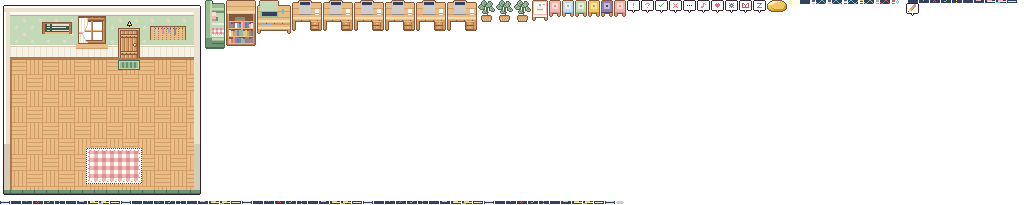
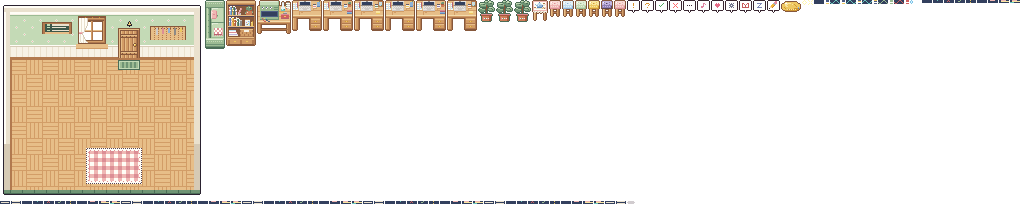
Hand-drawn 1px furniture for the room
Desks (each with its own props), stools, bookshelf, test rig, sofa, tea table,
beanbag and plants are drawn pixel by pixel in tools/art/furniture.py.
Frame sizes, positions, spots and screen overlays are unchanged.

diff --git a/tools/art/furniture.py b/tools/art/furniture.py
@@ -1,0 +1,347 @@
+"""Hand-placed furniture for the top-down room: 1 art pixel = 1 px, one opaque colour per pixel.
+
+cottage.py still owns where each piece stands (its floor box, draw order and frame position);
+gen_art.py swaps the box-built picture for the one drawn here, which must have the same size.
+"""
+from PIL import Image
+
+import cottage
+
+PAL = dict(cottage.PAL, g3='#e9e6e2')
+
+C = {k: (int(v[1:3], 16), int(v[3:5], 16), int(v[5:7], 16), 255) for k, v in PAL.items()}
+
+
+class Cv:
+    def __init__(s, w, h):
+        s.w, s.h = w, h
+        s.px = {}
+
+    def p(s, x, y, c):
+        # content stays one pixel inside the frame so the outline always fits
+        if 1 <= x < s.w - 1 and 1 <= y < s.h - 1:
+            s.px[(x, y)] = c
+
+    def r(s, x0, y0, x1, y1, c):
+        """filled rect, inclusive"""
+        for y in range(y0, y1 + 1):
+            for x in range(x0, x1 + 1):
+                s.p(x, y, c)
+
+    def hl(s, x0, x1, y, c):
+        s.r(x0, y, x1, y, c)
+
+    def vl(s, x, y0, y1, c):
+        s.r(x, y0, x, y1, c)
+
+    def rows(s, x, y, rows, cm):
+        for j, row in enumerate(rows):
+            for i, ch in enumerate(row):
+                if ch in cm:
+                    s.p(x + i, y + j, cm[ch])
+
+    def ell(s, cx, cy, rx, ry, c, only=None):
+        for y in range(int(cy - ry) - 1, int(cy + ry) + 2):
+            for x in range(int(cx - rx) - 1, int(cx + rx) + 2):
+                if ((x - cx) / rx) ** 2 + ((y - cy) / ry) ** 2 <= 1.0:
+                    if only is None or only(x, y):
+                        s.p(x, y, c)
+
+    def outline(s, c):
+        add = set()
+        for (x, y) in s.px:
+            for dx, dy in ((1, 0), (-1, 0), (0, 1), (0, -1)):
+                n = (x + dx, y + dy)
+                if n not in s.px:
+                    add.add(n)
+        for (x, y) in add:
+            if 0 <= x < s.w and 0 <= y < s.h:
+                s.px[(x, y)] = c
+
+    def image(s):
+        im = Image.new('RGBA', (s.w, s.h), (0, 0, 0, 0))
+        for (x, y), c in s.px.items():
+            im.putpixel((x, y), C[c])
+        return im
+
+
+# ------------------------------------------------------------------ desk (30 x 31)
+def plank_top(c, x0, y0, x1, y1, seams, joints):
+    """wood top: planks run along x with offset butt joints and a few grain flecks"""
+    c.r(x0, y0, x1, y1, 'h3')
+    for sy in seams:
+        c.hl(x0, x1, sy, 'h2')
+    for (jx, jy0, jy1) in joints:
+        c.vl(jx, jy0, jy1, 'h2')
+    for (gx, gy) in [(x0 + 3, y0 + 2), (x0 + 4, y0 + 2), (x1 - 6, y0 + 7), (x1 - 5, y0 + 7), (x0 + 9, y1 - 2), (x0 + 10, y1 - 2), (x1 - 2, y0 + 3)]:
+        if x0 <= gx <= x1 and y0 <= gy <= y1:
+            c.p(gx, gy, 'h4' if gy % 2 else 'h2')
+
+
+def desk(variant=0):
+    c = Cv(30, 31)
+    # legs + drawer pedestal (drawn first; the top overhangs them)
+    c.r(1, 18, 4, 29, 'h2'); c.vl(1, 18, 29, 'h3'); c.vl(4, 18, 29, 'h1'); c.hl(1, 4, 29, 'h1')
+    c.r(18, 18, 28, 29, 'h2'); c.vl(18, 18, 29, 'h1'); c.vl(28, 18, 29, 'h1')
+    for dy in (19, 24):                       # two drawers with brass pulls and a lit lip
+        c.hl(19, 27, dy, 'h3'); c.r(19, dy + 1, 27, dy + 3, 'h2'); c.hl(19, 27, dy + 4, 'h1')
+        c.hl(22, 24, dy + 2, 'y0'); c.p(23, dy + 2, 'y1')
+    c.hl(18, 28, 29, 'h0')
+    # top
+    plank_top(c, 0, 1, 29, 14, seams=[5, 10], joints=[(12, 1, 4), (21, 6, 9), (7, 11, 14)])
+    c.hl(0, 29, 15, 'h4')                     # rounded front edge catches the light
+    c.r(0, 16, 29, 17, 'h2'); c.hl(0, 29, 17, 'h1')
+    c.hl(1, 28, 0, 'h3')
+    # laptop: lid (screen at 8..17 x 2..4 is the app's overlay), keyboard, trackpad, shadow
+    c.r(7, 1, 18, 5, 'g2'); c.hl(7, 18, 1, 'g3'); c.hl(7, 18, 5, 'g1')
+    c.r(8, 2, 17, 4, 'n0')
+    c.p(12, 1, 'g1'); c.p(13, 1, 'g1')                          # webcam notch
+    c.r(7, 6, 18, 10, 'g3'); c.vl(18, 6, 10, 'g2'); c.hl(7, 18, 10, 'g2')
+    for y in (6, 7, 8):
+        for x in range(8, 18):
+            if (x + y) % 2 == 0:
+                c.p(x, y, 'g2')
+    c.hl(10, 15, 8, 'g2')                                       # space bar
+    c.r(11, 9, 14, 9, 'g2')                                     # trackpad
+    c.hl(8, 18, 11, 'h2')                                       # soft shadow under the laptop
+    # left: open notebook with ruled lines + pen
+    c.r(1, 3, 5, 9, 'c3'); c.vl(3, 3, 9, 'c1')
+    for y in (4, 6, 8):
+        c.hl(1, 2, y, 'b2'); c.hl(4, 5, y, 'b2')
+    c.vl(5, 2, 6, 'r0'); c.p(5, 7, 'g1')
+    c.hl(1, 5, 10, 'h2')
+    # right: mug (+ handle) and pencil cup, varied per desk
+    mug = ['r1', 'b1', 's1', 'y1', 'l0', 't1'][variant % 6]
+    c.r(21, 4, 23, 7, 'c2'); c.hl(21, 23, 4, 'n1'); c.hl(21, 23, 6, mug); c.p(24, 5, 'c1'); c.p(24, 6, 'c1'); c.hl(21, 24, 8, 'h2')
+    c.p(22, 4, 'h0')
+    if variant % 3 == 0:
+        c.r(25, 2, 27, 6, 'b1'); c.hl(25, 27, 6, 'b0')         # pencil cup
+        c.p(25, 1, 'y1'); c.p(25, 0, 'n0'); c.p(26, 0, 'r1'); c.p(27, 1, 's1')
+    elif variant % 3 == 1:
+        c.r(24, 10, 28, 11, 'r1'); c.r(24, 12, 28, 13, 'b1'); c.hl(24, 28, 11, 'r0'); c.hl(24, 28, 13, 'b0')   # book stack
+        c.ell(26, 3, 1.6, 1.6, 's1'); c.p(25, 2, 's2'); c.r(25, 4, 27, 6, 't1'); c.hl(25, 27, 4, 't0')  # succulent
+    else:
+        c.r(24, 1, 28, 6, 'h1'); c.r(25, 2, 27, 5, 'b2'); c.p(26, 3, 'y2'); c.p(25, 5, 's2'); c.p(27, 5, 's1')  # photo frame
+        c.r(22, 11, 25, 13, 'y2'); c.hl(22, 25, 13, 'y1')       # sticky note
+    c.outline('h0')
+    return c.image()
+
+
+# ------------------------------------------------------------------ stool (12 x 17)
+def stool(col):
+    hi, mid, lo = col
+    c = Cv(12, 17)
+    c.r(2, 9, 3, 15, 'h2'); c.vl(2, 9, 15, 'h3'); c.r(8, 9, 9, 15, 'h1'); c.vl(8, 9, 15, 'h2')
+    c.hl(4, 7, 12, 'h1')                                        # stretcher
+    c.r(1, 5, 10, 8, mid); c.hl(1, 10, 8, lo); c.vl(10, 5, 8, lo)   # puffy cushion side
+    c.r(1, 1, 10, 5, hi)                                        # cushion top
+    c.hl(1, 10, 5, mid)
+    c.p(1, 1, mid); c.p(10, 1, mid)
+    c.p(5, 3, lo); c.p(6, 3, mid)                               # button tuft
+    for (x, y) in ((3, 2), (8, 2), (3, 4), (8, 4)):
+        c.p(x, y, mid)                                          # tuft creases
+    c.p(2, 2, 'c3')                                             # sheen
+    for x in range(2, 10, 2):
+        c.p(x, 6, hi)                                           # piping stitches
+    c.outline('h0')
+    return c.image()
+
+
+# ------------------------------------------------------------------ shelf (30 x 46)
+def shelf():
+    c = Cv(30, 46)
+    c.r(0, 0, 29, 45, 'h2')
+    c.r(0, 0, 29, 3, 'h3'); c.hl(0, 29, 0, 'h4'); c.hl(0, 29, 3, 'h2'); c.hl(0, 29, 4, 'h1')   # crown
+    c.vl(0, 4, 45, 'h3'); c.vl(1, 4, 45, 'h2'); c.vl(28, 4, 45, 'h1'); c.vl(29, 4, 45, 'h2')
+    bays = [(5, 14), (16, 25), (27, 36)]
+    for (y0, y1) in bays:
+        c.r(2, y0, 27, y1, 'h0')
+        c.hl(2, 27, y0, 'ink2')                                   # shade under the shelf above
+        c.hl(2, 27, y1 + 1, 'h3'); c.hl(2, 27, y1 + 2, 'h1')
+    # bay 1: books + a small trailing plant
+    books = [(2, 1, 8, 'r1'), (3, 2, 9, 'b1'), (5, 1, 7, 'y1'), (6, 2, 9, 's1'), (8, 1, 8, 'l0'), (9, 1, 6, 'c2')]
+    def shelf_books(y1, books, x):
+        for (_, w, h, col) in books:
+            c.r(x, y1 - h + 1, x + w - 1, y1, col)
+            c.hl(x, x + w - 1, y1 - h + 1, 'c3' if col != 'c2' else 'c1')      # page tops
+            if w == 2:
+                c.vl(x + 1, y1 - h + 2, y1, {'r1': 'r0', 'b1': 'b0', 'y1': 'y0', 's1': 's0', 'l0': 'ink2', 'c2': 'c0', 't1': 't0', 'r2': 'r1', 'b2': 'b1'}[col])
+            c.p(x, y1 - h // 2, 'c3' if col not in ('c2', 'y1') else 'h1')      # spine band
+            x += w
+        return x
+    x = shelf_books(14, books, 3)
+    c.r(x + 1, 13, x + 3, 14, 'g2')                               # leaning book
+    for i in range(6):
+        c.p(x + 1 + i // 2, 13 - i, 'r2'); c.p(x + 2 + i // 2, 13 - i, 'r1')
+    c.r(20, 10, 25, 14, 't1'); c.hl(20, 25, 10, 't0'); c.hl(20, 25, 11, 't1'); c.p(21, 12, 'r3')  # pot
+    c.ell(22.5, 8, 3.0, 2.2, 's1'); c.p(21, 7, 's2'); c.p(23, 7, 's3'); c.p(24, 8, 's0')
+    c.p(20, 11, 's1'); c.p(19, 12, 's1'); c.p(19, 13, 's2'); c.p(26, 11, 's1'); c.p(26, 12, 's2')   # trailing vines
+    # bay 2: tall books, bookend, jar of buttons
+    x = shelf_books(25, [(0, 2, 9, 'b1'), (0, 1, 8, 'r2'), (0, 2, 9, 'y1'), (0, 2, 7, 't1'), (0, 1, 9, 'c2'), (0, 2, 8, 's1'), (0, 1, 7, 'b2')], 3)
+    c.r(x, 20, x + 1, 25, 'g1'); c.hl(x, x + 1, 20, 'g2')
+    c.r(19, 19, 23, 25, 'b3'); c.hl(19, 23, 19, 'h1'); c.hl(19, 23, 20, 'c2')
+    for (bx, by, bc) in [(20, 22, 'r1'), (22, 23, 'y1'), (21, 24, 's1'), (20, 24, 'l1'), (22, 21, 'b1')]:
+        c.p(bx, by, bc)
+    c.vl(23, 21, 25, 'b2')
+    c.r(25, 22, 26, 25, 'y1'); c.p(25, 22, 'y2'); c.p(26, 21, 'y0')       # rubber duck
+    # bay 3: a lying stack + a wicker basket
+    for i, col in enumerate(['l1', 'r1', 'b2']):
+        c.r(3, 34 - i * 2, 11 - i, 35 - i * 2, col); c.hl(3, 11 - i, 35 - i * 2, 'c3' if i else 'c2')
+    c.r(14, 29, 26, 36, 'h2')
+    for y in range(29, 37):
+        for x in range(14, 27):
+            if (x + (y // 2) * 2) % 4 == 0:
+                c.p(x, y, 'h1')
+    c.hl(14, 26, 29, 'h3'); c.hl(14, 26, 36, 'h1'); c.r(18, 30, 22, 31, 'c2')   # label
+    # plinth with feet
+    c.r(2, 39, 27, 44, 'h1'); c.hl(2, 27, 39, 'h2'); c.hl(2, 27, 44, 'h0')
+    c.r(4, 40, 13, 43, 'h2'); c.r(16, 40, 25, 43, 'h2'); c.p(8, 41, 'y1'); c.p(9, 41, 'y1'); c.p(20, 41, 'y1'); c.p(21, 41, 'y1')  # drawer pulls
+    c.hl(0, 29, 45, 'h0')
+    c.outline('h0')
+    return c.image()
+
+
+# ------------------------------------------------------------------ test rig (34 x 34); overlay at (5, 12) 15 x 4
+def rig():
+    c = Cv(34, 34)
+    c.r(1, 24, 3, 32, 'h2'); c.vl(3, 24, 32, 'h1'); c.r(30, 24, 32, 32, 'h1'); c.vl(30, 24, 32, 'h2')
+    c.hl(3, 30, 29, 'h1')                                         # foot rail
+    plank_top(c, 0, 6, 33, 20, seams=[11, 16], joints=[(24, 7, 10), (28, 12, 15), (9, 17, 20)])
+    c.hl(0, 33, 21, 'h4'); c.r(0, 22, 33, 23, 'h2'); c.hl(0, 33, 23, 'h1')
+    # the meter: mint casing with a lit top, bezel, knobs, a vent
+    c.r(3, 1, 21, 4, 's3'); c.hl(3, 21, 1, 's4'); c.vl(21, 1, 4, 's2')
+    c.r(3, 5, 21, 19, 's2'); c.vl(21, 5, 19, 's1'); c.hl(3, 21, 19, 's1')
+    c.r(4, 11, 20, 16, 'n1')
+    c.r(5, 12, 19, 15, 'n0')                                      # overlay area
+    for kx in (5, 9, 13):
+        c.r(kx, 7, kx + 1, 8, 'c3'); c.p(kx + 1, 8, 'g1'); c.p(kx, 7, 'n1')   # knobs
+    c.hl(17, 20, 7, 's1'); c.hl(17, 20, 9, 's1')                  # vent slots
+    c.p(5, 18, 'x0'); c.p(7, 18, 'y1'); c.p(9, 18, 'w1')          # jacks
+    # probe cables in a loop to the right
+    for (x, y, col) in [(6, 19, 'x0'), (6, 20, 'x0'), (7, 21, 'x0'), (8, 21, 'x0'), (9, 20, 'n1'), (10, 20, 'n1'), (11, 21, 'n1'), (12, 21, 'n1'),
+                        (9, 19, 'n1')]:
+        c.p(x, y, col)
+    # flask with teal liquid + a bubble
+    c.r(25, 3, 26, 6, 'b3'); c.hl(25, 26, 2, 'g2')
+    c.r(24, 7, 27, 10, 'b3'); c.r(24, 9, 27, 10, 'w1'); c.p(27, 9, 'w0'); c.p(25, 9, 'b3')
+    # toolbox + screwdriver + clipboard with a checklist
+    c.r(24, 14, 31, 18, 'x0'); c.hl(24, 31, 14, 'r1'); c.hl(24, 31, 18, 'r0'); c.hl(26, 29, 13, 'g1'); c.p(27, 16, 'y1'); c.p(28, 16, 'y1')
+    c.hl(23, 26, 12, 'y1'); c.hl(27, 29, 12, 'g2')
+    c.r(29, 2, 32, 8, 'h1'); c.r(29, 3, 32, 8, 'c3'); c.hl(30, 31, 2, 'g1')
+    for y in (4, 6):
+        c.p(29, y, 's1'); c.hl(30, 32, y, 'g2')
+    c.p(29, 8, 'x0'); c.hl(30, 31, 8, 'g2')
+    c.outline('h0')
+    return c.image()
+
+
+# ------------------------------------------------------------------ sofa (20 x 49), along the left wall
+def sofa():
+    c = Cv(20, 49)
+    # backrest roll along the wall
+    c.r(0, 3, 5, 45, 's1'); c.vl(1, 3, 45, 's2'); c.vl(2, 3, 45, 's3'); c.vl(3, 3, 45, 's2'); c.vl(5, 3, 45, 's0')
+    for y in range(8, 42, 6):
+        c.p(3, y, 's1')                                          # tufting buttons on the back
+    # arms (rolled, with a lit crest and a stitched panel)
+    for (y0, y1) in ((0, 7), (38, 44)):
+        c.r(0, y0, 18, y1, 's2'); c.hl(0, 18, y0, 's3'); c.hl(1, 17, y0 + 1, 's4'); c.hl(0, 18, y1, 's1')
+        for x in range(2, 18, 2):
+            c.p(x, y0 + 3, 's3')
+    # seat cushions with seams, buttons and a sheen
+    for (y0, y1) in ((8, 22), (23, 37)):
+        c.r(6, y0, 18, y1, 's3'); c.hl(6, 18, y1, 's2'); c.vl(18, y0, y1, 's2')
+        c.vl(6, y0, y1, 's2'); c.hl(7, 12, y0, 's4'); c.p(7, y0 + 1, 's4')
+        c.p(12, (y0 + y1) // 2, 's1'); c.p(12, (y0 + y1) // 2 + 1, 's2')
+    c.hl(6, 18, 22, 's1')
+    # rose pillow leaning on the back
+    c.r(6, 10, 11, 18, 'r2'); c.vl(6, 11, 17, 'r3'); c.vl(11, 11, 17, 'r1'); c.hl(7, 11, 18, 'r1')
+    c.p(6, 10, 's3'); c.p(11, 10, 's3'); c.p(6, 18, 's3'); c.p(11, 18, 's3')     # puffed corners
+    c.p(8, 14, 'r1'); c.p(9, 14, 'r1'); c.p(7, 12, 'r3')                         # centre crease + sheen
+    # folded gingham throw on the second cushion
+    for y in range(28, 35):
+        for x in range(9, 18):
+            c.p(x, y, 'r1' if (x // 2 + y // 2) % 2 == 0 and (x // 2) % 2 == 0 else ('r2' if (x // 2 + y // 2) % 2 == 0 else 'c3'))
+    c.hl(9, 17, 34, 'r0'); c.vl(17, 28, 34, 'r2')
+    for x in range(9, 18, 2):
+        c.p(x, 35, 'r1')                                          # fringe
+    # base front + wooden feet
+    c.r(0, 45, 18, 47, 's1'); c.hl(0, 18, 45, 's2'); c.hl(0, 18, 47, 's0')
+    c.r(1, 48, 2, 48, 'h1'); c.r(16, 48, 17, 48, 'h1')
+    c.outline('s0')
+    return c.image()
+
+
+# ------------------------------------------------------------------ tea table (16 x 21)
+def table():
+    c = Cv(16, 21)
+    c.r(2, 13, 3, 19, 'h2'); c.vl(2, 13, 19, 'h3'); c.r(12, 13, 13, 19, 'h1'); c.vl(12, 13, 19, 'h2')
+    c.r(1, 1, 14, 9, 'c3')                                        # lace cloth top with a rose border
+    c.hl(1, 14, 1, 'r2'); c.vl(1, 1, 9, 'r2'); c.vl(14, 1, 9, 'r2')
+    c.r(1, 10, 14, 11, 'c2'); c.hl(1, 14, 10, 'r2')               # cloth drop
+    for x in range(1, 15):
+        if x % 3 != 1:
+            c.p(x, 12, 'c1')                                      # scalloped hem
+    for x in range(2, 14, 3):
+        c.p(x, 11, 'c0')
+    # teapot (lid, knob, spout, handle)
+    c.r(5, 4, 9, 7, 'b1'); c.hl(5, 9, 4, 'b2'); c.hl(6, 8, 3, 'b2'); c.p(7, 2, 'b0')
+    c.p(6, 5, 'b3'); c.hl(5, 9, 7, 'b0'); c.p(4, 5, 'b1'); c.p(3, 4, 'b1'); c.p(10, 5, 'b0'); c.p(10, 6, 'b0')
+    c.hl(5, 9, 8, 'c1')                                           # its shadow on the cloth
+    # two cups of tea and a cookie plate
+    c.r(11, 3, 12, 4, 'c2'); c.hl(11, 12, 3, 'h1'); c.p(13, 4, 'c1'); c.hl(11, 12, 5, 'c1')
+    c.r(2, 7, 3, 8, 'c2'); c.hl(2, 3, 7, 'h1'); c.p(4, 8, 'c1')
+    c.r(10, 7, 13, 8, 'c1'); c.p(11, 7, 'h2'); c.p(12, 8, 'h1'); c.p(10, 8, 'h3')
+    c.outline('h0')
+    return c.image()
+
+
+# ------------------------------------------------------------------ beanbag (20 x 12)
+def beanbag():
+    c = Cv(20, 12)
+    c.ell(9.5, 6.2, 9.4, 5.2, 'y1')
+    c.ell(9.5, 6.2, 9.4, 5.2, 'y0', only=lambda x, y: (y - 6.2) / 5.2 + (x - 9.5) / 30 > 0.45)
+    c.ell(7.5, 4.6, 4.0, 2.0, 'y2')                               # the seat dent's lit rim
+    c.ell(8.5, 5.2, 3.0, 1.4, 'y1')
+    c.p(4, 3, 'c3'); c.p(5, 3, 'c3'); c.p(5, 2, 'y2')
+    for (x, y) in [(13, 4), (14, 5), (15, 6), (3, 7), (4, 8)]:
+        c.p(x, y, 'y0')                                           # fabric folds
+    for x in range(6, 15, 2):
+        c.p(x, 9, 'y2')                                           # seam stitches
+    c.p(17, 7, 'b1'); c.p(17, 8, 'b0')                             # tag
+    c.outline('h0')
+    return c.image()
+
+
+# ------------------------------------------------------------------ plant (17 x 22)
+def plant():
+    c = Cv(17, 22)
+    leaves = [(4.5, 4.5, 3.4, 2.4, -1), (11.5, 3.2, 3.2, 2.4, 1), (3.5, 9.2, 3.0, 2.1, -1), (12.8, 8.6, 3.0, 2.2, 1), (8.2, 2.2, 2.2, 2.0, 0)]
+    c.vl(8, 4, 15, 'h0'); c.p(7, 9, 'h0'); c.p(9, 7, 'h0')
+    for (cx, cy, rx, ry, d) in leaves:
+        c.ell(cx, cy, rx, ry, 's2')
+        c.ell(cx, cy, rx, ry, 's1', only=lambda x, y, cx=cx, cy=cy, rx=rx, ry=ry: (y - cy) / ry > 0.25)
+        c.ell(cx, cy, rx, ry, 's3', only=lambda x, y, cx=cx, cy=cy, rx=rx, ry=ry: (y - cy) / ry < -0.5 and (x - cx) / rx < 0.2)
+        for t in range(-int(rx) + 1, int(rx)):
+            c.p(int(cx + t), int(cy + (t * 0.25 * d)), 's0' if t > 0 else 's1')   # midrib
+    # terracotta pot: lip, band, body with a sheen, saucer
+    c.r(3, 14, 13, 15, 't1'); c.hl(3, 13, 14, 'r1'); c.hl(3, 13, 15, 't0')
+    c.r(4, 16, 12, 20, 't1'); c.vl(11, 16, 20, 't0'); c.vl(12, 16, 20, 't0'); c.vl(5, 17, 19, 'r1')
+    c.hl(6, 10, 18, 'c2'); c.p(7, 18, 's1'); c.p(9, 18, 'r1')        # painted band
+    c.r(2, 21, 14, 21, 't0')
+    c.outline('s0')
+    return c.image()
+
+
+STOOL_COLS = [('r3', 'r2', 'r1'), ('b3', 'b2', 'b1'), ('s4', 's3', 's2'), ('y2', 'y1', 'y0'), ('l1', 'l0', 'ink2'), ('r3', 'r2', 'r1')]
+
+
+def drawn(name):
+    """the hand-drawn picture for a cottage piece name, or None to keep the box-built one"""
+    if name.startswith('desk'):
+        return desk(int(name[4:]))
+    if name.startswith('stool'):
+        return stool(STOOL_COLS[int(name[5:])])
+    if name.startswith('plant'):
+        return plant()
+    make = {'shelf': shelf, 'rig': rig, 'sofa': sofa, 'table': table, 'beanbag': beanbag}.get(name)
+    return make() if make else None

diff --git a/tools/art/gen_art.py b/tools/art/gen_art.py
@@ -126,6 +126,7 @@ def from_rows(rows, pal):
 
 # ---------------------------------------------------------------- build
 import cottage
+import furniture as handmade
 
 
 def cropped(cv):
@@ -148,7 +149,14 @@ def build(camera):
     sprites['room'] = (r, 0, 0)
     furniture = []
     for name, cv, base, box in sorted(cottage.pieces(), key=lambda p: p[2]):
-        sprites[name] = cropped(cv)
+        s, dx, dy = cropped(cv)
+        im = handmade.drawn(name)
+        if im is not None:
+            # the hand-drawn piece takes the box-built one's place: same frame, same spot
+            assert im.size == (s.w, s.h), (name, im.size, (s.w, s.h))
+            s.im = im
+            s.px = s.im.load()
+        sprites[name] = (s, dx, dy)
         furniture.append({'name': name, 'base': base, 'box': box})
     for i, (x, y) in enumerate(cottage.DESKS):
         for st in cottage.SCREEN_STATES:
